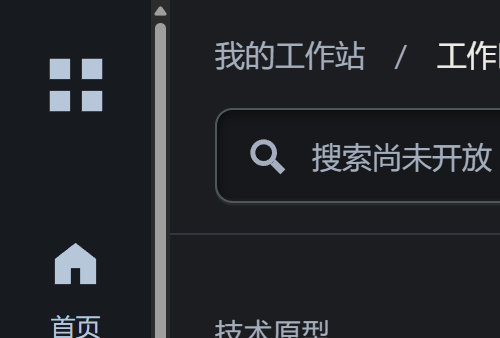
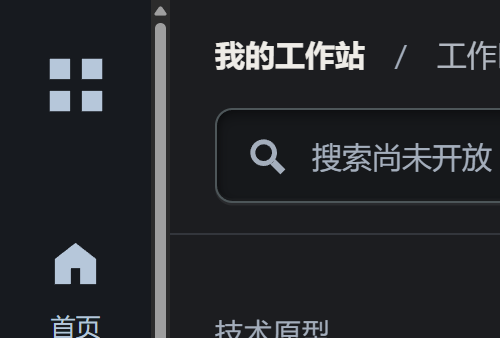
fix(shell): refine copy hierarchy and rounded corner hints

Changed region(s): [[0.42, 0.1183, 0.75, 0.2071], [0.87, 0.1183, 1.0, 0.2071]]

diff --git a/src/i18n.ts b/src/i18n.ts
@@ -2,61 +2,47 @@ export type PageId = 'home' | 'workspace' | 'plugins' | 'settings';
 
 const translations = {
   zh: {
-    appName: '模块化工作站',
-    prototype: '技术原型',
+    appName: '模块化工作站', prototype: '技术原型', navigation: '主导航',
     skip: '跳到主内容', context: '当前页面上下文', myStation: '我的工作站', overview: '总览',
     sections: { workspace: '文件与素材', plugins: '插件中心', settings: '外观与基础设置' },
-    localSpace: '本地空间', contextNote: '基础导航已可使用。工作空间、文件与插件功能将按计划逐步提供。',
+    localSpace: '本地空间', contextNote: '更多功能逐步开放',
     searchUnavailable: '搜索尚未开放', viewWorkspace: '查看工作区', createWorkspace: '新建工作空间', installPlugin: '安装插件',
-    workspaceUnavailable: '创建、关联文件夹与素材管理尚未实现。', pluginUnavailable: '安装与权限管理尚未实现，不会加载第三方代码。',
-    homeNote: '尚无文件或任务记录。这里仅提供已可用的页面导航，不展示示例业务数据。',
-    themeLabel: '当前主题方式', systemTheme: '跟随系统', themeNote: '深浅主题随系统切换；手动选择与偏好保存尚未实现。', previewOnly: '桌面 Shell · 功能逐步开放',
-    navigation: '主导航',
+    workspaceUnavailable: '创建与文件关联尚未开放', pluginUnavailable: '插件安装尚未开放',
+    homeNote: '暂无文件与任务',
+    themeLabel: '当前主题方式', systemTheme: '跟随系统', themeNote: '手动主题与偏好保存尚未开放',
     pages: {
-      home: { label: '首页', title: '从这里，组织你的每一天。', description: '创建一个本地工作区，再按自己的节奏加入文件、工具与插件。' },
-      workspace: { label: '工作区', title: '工作区', description: '目前还没有工作区。创建与打开本地工作区将在后续任务中实现。' },
-      plugins: { label: '插件', title: '插件', description: '插件管理尚未实现。此原型不会加载第三方代码。' },
-      settings: { label: '设置', title: '设置', description: '主题已跟随系统。手动主题、语言与其他配置将在后续任务中提供。' },
+      home: { label: '首页', title: '从这里开始创作', description: '集中管理空间与工具' },
+      workspace: { label: '工作区', title: '工作区', description: '工作空间功能尚未开放' },
+      plugins: { label: '插件', title: '插件', description: '插件管理尚未实现' },
+      settings: { label: '设置', title: '设置', description: '主题随系统切换' },
     },
-    status: '本地原型 · 无需登录',
-    emptyLabel: '等待下一步',
-    firstStep: '第一步 · 建立空间',
-    welcomeTitle: '让想法有一个落脚点',
-    welcomeDescription: '工作区会成为项目、素材和工具的起点。创建本地工作区的功能正在开发中。',
-    explore: '探索工作站',
+    status: '本地使用无需登录', emptyLabel: '等待下一步', explore: '探索工作站',
     modules: [
-      { symbol: '▣', title: '工作区', description: '为不同项目建立专属空间，集中常用视图与工具。', status: '尚未创建' },
-      { symbol: '▤', title: '文件与素材', description: '连接本地文件夹，清晰管理创作过程中的内容。', status: '即将开放' },
-      { symbol: '⬡', title: '工具与插件', description: '只启用真正需要的能力，保持工作台轻盈。', status: '即将开放' },
+      { title: '工作区', description: '集中项目与常用工具', status: '尚未创建' },
+      { title: '文件与素材', description: '整理文件与创作素材', status: '即将开放' },
+      { title: '工具与插件', description: '按需扩展工作站', status: '即将开放' },
     ],
   },
   en: {
-    appName: 'Modular Workstation',
-    prototype: 'Technical prototype',
+    appName: 'Modular Workstation', prototype: 'Technical prototype', navigation: 'Main navigation',
     skip: 'Skip to content', context: 'Page context', myStation: 'My workstation', overview: 'Overview',
-    sections: { workspace: 'Files & assets', plugins: 'Plugin center', settings: 'Appearance & basics' },
-    localSpace: 'LOCAL SPACE', contextNote: 'Page navigation is available. Workspaces, files and plugins will follow in later tasks.',
+    sections: { workspace: 'Files and assets', plugins: 'Plugin center', settings: 'Appearance and basics' },
+    localSpace: 'LOCAL SPACE', contextNote: 'More features coming later',
     searchUnavailable: 'Search coming later', viewWorkspace: 'View workspace', createWorkspace: 'New workspace', installPlugin: 'Install plugin',
-    workspaceUnavailable: 'Workspace creation, folder linking and asset management are not implemented.', pluginUnavailable: 'Installation and permissions are not implemented. No third-party code is loaded.',
-    homeNote: 'There are no file or task records. These entries navigate to existing pages; no sample business data is shown.',
-    themeLabel: 'Theme mode', systemTheme: 'Follow system', themeNote: 'Light and dark themes follow the system. Manual selection and preference storage are not implemented.', previewOnly: 'Desktop shell · More to come',
-    navigation: 'Main navigation',
+    workspaceUnavailable: 'Creation and folder linking coming later', pluginUnavailable: 'Plugin installation coming later',
+    homeNote: 'No files or tasks yet',
+    themeLabel: 'Theme mode', systemTheme: 'Follow system', themeNote: 'Manual themes and saved preferences coming later',
     pages: {
-      home: { label: 'Home', title: 'Organize your day from here.', description: 'Start with a local workspace, then add files, tools and plugins at your own pace.' },
-      workspace: { label: 'Workspaces', title: 'Workspaces', description: 'No workspace exists yet. Creating and opening local workspaces is planned for a later task.' },
-      plugins: { label: 'Plugins', title: 'Plugins', description: 'Plugin management is not implemented. This prototype does not load third-party code.' },
-      settings: { label: 'Settings', title: 'Settings', description: 'The theme follows your system. Manual theme, language and other preferences are planned for later tasks.' },
+      home: { label: 'Home', title: 'Start creating here', description: 'Keep your work in one place' },
+      workspace: { label: 'Workspaces', title: 'Workspaces', description: 'Workspace features coming later' },
+      plugins: { label: 'Plugins', title: 'Plugins', description: 'Plugin management is not implemented' },
+      settings: { label: 'Settings', title: 'Settings', description: 'Theme follows your system' },
     },
-    status: 'Local prototype · No sign-in',
-    emptyLabel: 'Coming later',
-    firstStep: 'FIRST STEP · MAKE SPACE',
-    welcomeTitle: 'Give ideas a place to land',
-    welcomeDescription: 'A workspace will be the starting point for projects, assets and tools. Local workspace creation is in development.',
-    explore: 'Explore the workstation',
+    status: 'Local use without login', emptyLabel: 'Coming later', explore: 'Explore the workstation',
     modules: [
-      { symbol: '▣', title: 'Workspaces', description: 'Create dedicated spaces for projects, views and tools.', status: 'Not created' },
-      { symbol: '▤', title: 'Files & assets', description: 'Connect local folders and organize creative work.', status: 'Coming later' },
-      { symbol: '⬡', title: 'Tools & plugins', description: 'Enable only the abilities you need.', status: 'Coming later' },
+      { title: 'Workspaces', description: 'Keep projects and tools together', status: 'Not created' },
+      { title: 'Files and assets', description: 'Organize files and creative assets', status: 'Coming later' },
+      { title: 'Tools and plugins', description: 'Extend your workstation as needed', status: 'Coming later' },
     ],
   },
 } as const;

diff --git a/src/styles.css b/src/styles.css
@@ -24,8 +24,9 @@ button { cursor: pointer; }
 .main-panel { min-width: 0; overflow: auto; }
 .topbar { min-height: 70px; padding: 12px 38px; display: flex; align-items: center; justify-content: space-between; gap: 20px; border-bottom: 1px solid var(--color-divider); font-size: var(--type-small); }
 .breadcrumb { color: var(--color-subtle); line-height: 1.6; }
-.breadcrumb span { padding: 0 12px; }
-.breadcrumb strong { color: var(--color-text); font-weight: 500; }
+.breadcrumb-separator { padding: 0 12px; }
+.breadcrumb-current { color: var(--color-muted); font-weight: 400; }
+.breadcrumb strong { color: var(--color-text); font-weight: 650; }
 .search-surface { display: flex; align-items: center; gap: 10px; width: 267px; min-height: 38px; padding: 8px 12px; border: 1px solid var(--color-frame); border-radius: var(--radius-md); color: var(--color-subtle); background: var(--color-well); box-shadow: var(--shadow-recessed); }
 .search-surface .icon { width: 16px; height: 16px; }
 .content { padding: 36px clamp(24px, 3vw, 40px); }
@@ -36,22 +37,22 @@ h1 { font-size: var(--type-title); line-height: 1.35; font-weight: 650; margin: 
 .control { display: inline-flex; align-items: center; justify-content: center; gap: 8px; min-height: var(--control-height); padding: 10px 16px; border: 1px solid var(--color-frame); border-radius: var(--radius-md); background: var(--color-surface); color: var(--color-text); font-size: var(--type-small); }
 .control .icon { width: 18px; height: 18px; }
 .control:not(:disabled):hover { background: var(--color-surface-hover); }
-.control.primary { flex: none; background: var(--color-accent); color: var(--color-on-accent); border-color: transparent; box-shadow: var(--shadow-raised); font-weight: 600; }
+.control.primary { flex: none; background: var(--color-accent); color: var(--color-on-accent); border-color: transparent; box-shadow: var(--shadow-raised); font-weight: 400; }
 .control.primary:hover, .module-card[data-selected="true"]:hover { background: var(--color-accent); filter: brightness(1.05); }
 .control:disabled { background: var(--color-disabled); color: var(--color-on-disabled); box-shadow: none; cursor: not-allowed; }
 .section-title { font-size: var(--type-body); margin: 32px 0 16px; }
 .module-grid { display: grid; grid-template-columns: repeat(3, minmax(0, 1fr)); gap: 16px; }
-.module-card { text-align: left; min-width: 0; min-height: 190px; padding: 22px; border: 1px solid var(--color-divider); border-radius: var(--radius-lg); background: var(--color-surface); color: var(--color-text); box-shadow: var(--shadow-panel); }
+.module-card { position: relative; text-align: left; min-width: 0; min-height: 190px; padding: 22px; border: 1px solid var(--color-divider); border-radius: var(--radius-lg); background: var(--color-surface); color: var(--color-text); box-shadow: var(--shadow-panel); }
 .module-card:hover { background: var(--color-surface-hover); }
 .card-head { display: flex; justify-content: space-between; align-items: center; margin-bottom: 20px; }
-.card-head > .icon { width: 17px; height: 17px; color: var(--color-subtle); }
+.module-card-corner { position: absolute; top: 14px; right: 14px; width: 18px; height: 18px; color: var(--color-subtle); pointer-events: none; }
 .state-emblem { width: 40px; height: 40px; display: grid; place-items: center; border-radius: var(--radius-md); color: var(--color-icon); background: var(--color-icon-bg); }
 .module-icon { width: 40px; height: 40px; display: grid; place-items: center; border-radius: var(--radius-md); background: var(--color-accent); color: var(--color-on-icon); }
 .module-card h3 { margin: 0 0 8px; font-size: 15px; }
 .module-card p { margin: 0; font-size: var(--type-small); color: var(--color-muted); line-height: 1.8; }
 .module-status { display: block; margin-top: 16px; font-size: var(--type-caption); color: var(--color-subtle); }
 .module-card[data-selected="true"] { background: var(--color-accent); color: var(--color-on-accent); border-color: transparent; box-shadow: var(--shadow-raised); }
-.module-card[data-selected="true"] p, .module-card[data-selected="true"] .module-status, .module-card[data-selected="true"] .card-head > .icon { color: inherit; }
+.module-card[data-selected="true"] p, .module-card[data-selected="true"] .module-status, .module-card[data-selected="true"] .module-card-corner { color: inherit; }
 .home-note { display: flex; align-items: flex-start; gap: 12px; margin-top: 32px; padding: 20px 0; border-top: 1px solid var(--color-divider); color: var(--color-subtle); }
 .home-note p { margin: 0; font-size: var(--type-small); line-height: 1.8; }
 .home-note .icon { margin-top: 2px; width: 18px; height: 18px; }

diff --git a/src/App.tsx b/src/App.tsx
@@ -24,10 +24,10 @@ export default function App() {
      <div className="sidebar-footer"><span className="status-dot"/>{messages.status}</div>
     </aside>
     <main className="main-panel" id="main-content" tabIndex={-1}>
-     <header className="topbar"><span className="breadcrumb">{messages.myStation}<span aria-hidden="true">/</span><strong>{current.label}</strong></span><div className="search-surface" aria-label={messages.searchUnavailable}><Icon name="search"/><span>{messages.searchUnavailable}</span></div></header>
+     <header className="topbar"><span className="breadcrumb"><strong>{messages.myStation}</strong><span className="breadcrumb-separator" aria-hidden="true">/</span><span className="breadcrumb-current">{current.label}</span></span><div className="search-surface" aria-label={messages.searchUnavailable}><Icon name="search"/><span>{messages.searchUnavailable}</span></div></header>
      <section className="content" aria-labelledby="page-title">
       <div className="content-intro"><div><span className="eyebrow">{messages.prototype}</span><h1 id="page-title">{current.title}</h1><p>{current.description}</p></div>{page==='home'&&<button className="control primary" type="button" onClick={()=>setPage('workspace')}><Icon name="workspace"/>{messages.viewWorkspace}</button>}</div>
-      {page==='home'?<><h2 className="section-title">{messages.explore}</h2><div className="module-grid">{messages.modules.map((module,index)=><button type="button" className="module-card" key={module.title} onClick={()=>setPage(moduleTargets[index])}><div className="card-head"><span className="module-icon"><Icon name={moduleIcons[index]}/></span><Icon name="arrow"/></div><h3>{module.title}</h3><p>{module.description}</p><span className="module-status">{module.status}</span></button>)}</div><div className="home-note"><Icon name="clock"/><p>{messages.homeNote}</p></div></>:<div className="empty-panel state-panel" data-tone="neutral"><div className="state-emblem"><Icon name={page}/></div><h2>{messages.emptyLabel}</h2><p>{current.description}</p>{page==='workspace'&&<><button className="control" type="button" disabled>{messages.createWorkspace}</button><span className="availability-note">{messages.workspaceUnavailable}</span></>}{page==='plugins'&&<><button className="control" type="button" disabled>{messages.installPlugin}</button><span className="availability-note">{messages.pluginUnavailable}</span></>}{page==='settings'&&<div className="theme-information"><span>{messages.themeLabel}</span><strong>{messages.systemTheme}</strong><p>{messages.themeNote}</p></div>}</div>}
+      {page==='home'?<><h2 className="section-title">{messages.explore}</h2><div className="module-grid">{messages.modules.map((module,index)=><button type="button" className="module-card" key={module.title} onClick={()=>setPage(moduleTargets[index])}><div className="card-head"><span className="module-icon"><Icon name={moduleIcons[index]}/></span><Icon name="corner" className="module-card-corner"/></div><h3>{module.title}</h3><p>{module.description}</p><span className="module-status">{module.status}</span></button>)}</div><div className="home-note"><Icon name="clock"/><p>{messages.homeNote}</p></div></>:<div className="empty-panel state-panel" data-tone="neutral"><div className="state-emblem"><Icon name={page}/></div><h2>{messages.emptyLabel}</h2><p>{current.description}</p>{page==='workspace'&&<><button className="control" type="button" disabled>{messages.createWorkspace}</button><span className="availability-note">{messages.workspaceUnavailable}</span></>}{page==='plugins'&&<><button className="control" type="button" disabled>{messages.installPlugin}</button><span className="availability-note">{messages.pluginUnavailable}</span></>}{page==='settings'&&<div className="theme-information"><span>{messages.themeLabel}</span><strong>{messages.systemTheme}</strong><p>{messages.themeNote}</p></div>}</div>}
      </section>
     </main>
    </div>

diff --git a/src/Icons.tsx b/src/Icons.tsx
@@ -1,5 +1,5 @@
 import type { PageId } from './i18n';
-export type IconName = PageId | 'grid' | 'folder' | 'search' | 'arrow' | 'warning' | 'clock';
+export type IconName = PageId | 'grid' | 'folder' | 'search' | 'corner' | 'warning' | 'clock';
 const shapes: Record<IconName, string> = {
  home: 'M3 10 12 3l9 7v11h-7v-7h-4v7H3Z',
  workspace: 'M3 3h18v18H3Zm2 4v2h14V7Zm3 4v8h2v-8Z',
@@ -8,10 +8,10 @@ const shapes: Record<IconName, string> = {
  grid: 'M3 3h7v7H3Zm11 0h7v7h-7ZM3 14h7v7H3Zm11 0h7v7h-7Z',
  folder: 'M3 4h6l3 3h9v3H3Zm-1 8h20l-2 9H4Z',
  search: 'M18 10a8 8 0 1 1-16 0 8 8 0 0 1 16 0ZM5 10a5 5 0 1 0 10 0 5 5 0 0 0-10 0Zm9 7 3-3 6 6-3 3Z',
- arrow: 'M6 5h13v13h-2V8L5 20l-1.5-1.5L15 7H6Z',
+ corner: 'M4 4h11a5 5 0 0 1 5 5v11',
  warning: 'm10.3 3-8 15A2 2 0 0 0 4 21h16a2 2 0 0 0 1.7-3l-8-15a2 2 0 0 0-3.4 0Zm.9 5v6h1.6V8Zm0 8v2h1.6v-2Z',
  clock: 'M22 12A10 10 0 1 1 2 12a10 10 0 0 1 20 0ZM11 6v7l5 3 .8-1.4-4.2-2.5V6Z',
 };
 export function Icon({ name, className = '' }: { name: IconName; className?: string }) {
- return <svg className={`icon ${className}`} viewBox="0 0 24 24" aria-hidden="true" focusable="false"><path d={shapes[name]} fill="currentColor" fillRule="evenodd" /></svg>;
+ return <svg className={`icon ${className}`} viewBox="0 0 24 24" aria-hidden="true" focusable="false">{name === 'corner' ? <path d={shapes.corner} fill="none" stroke="currentColor" strokeWidth="2" strokeLinecap="round" strokeLinejoin="round" /> : <path d={shapes[name]} fill="currentColor" fillRule="evenodd" />}</svg>;
 }

diff --git a/PROJECT_STATE.md b/PROJECT_STATE.md
@@ -3,13 +3,15 @@
 
 > 本文件是跨会话的**恢复入口**，不是项目任务数据库。先阅读它，再检查链接中的实时 Issue / PR / Projects；若内容冲突，以 GitHub 实时记录为准。
 
-视觉恢复必读：[已确认视觉偏好与复查清单](docs/DESIGN_PREFERENCES.md)。最新反馈将普通控件边框设为 1px、原边界色 50% 不透明度；保留实色选中、面型为主的图标、钴蓝与 `#C93B3B` 警告。AGENTS.md 已要求未来界面修改先读并复查，变更仍在 PR #19，应用未映射。
+视觉恢复必读：[已确认视觉偏好与复查清单](docs/DESIGN_PREFERENCES.md)。普通控件边框 1px、原边界色 50% 不透明度；实色选中、面型为主的图标与 `#C93B3B` 警告保持。最新应用为米白/深蓝及炭灰/深蓝主题，已在 PR #20 映射；未来界面修改须按 AGENTS.md 先读偏好并复查，不恢复历史钴蓝候选。
 
 侧边设计交接补充：用户已认可 [明亮米白与深蓝、轻微凹凸层次的浅色首页方向](docs/DESIGN_REVIEW_IVORY_TACTILE.md)。原样稿已归档，偏好记录及 D1 已标注优先级；该段为交接归档时点；随后深色已确认，应用映射进展见下一段。此项不改变唯一主任务或阶段验收状态。
 
 最新实施（产品负责人通过侧边讨论明确授权）：[深浅主题统一映射到四页 Shell](docs/SHELL_THEME_IMPLEMENTATION.md)，[实施 PR #20](https://github.com/2539426035852ningmao-cmyk/modular-workstation/pull/20)，分支 `feat/s1-approved-theme-shell`，承接 PR #19 的已确认设计。深色方向已确认 `#1C1D20` / `#225487`，浅色为 `#F8F5EF` / `#0C3967`；真实导航、只读主题说明与空态已换装，文件/插件业务仍未实现。中英文、四页、双主题、六种尺寸与缩放共 96 个实际窗口案例、Windows 便携包启动与退出核验已通过，待审查和最终产品验收；旧稿进展段落按历史时点理解。
 
 最新截图修正已追加至 PR #20：移除默认菜单、重复品牌横栏与全宽底部状态栏；三张首页模块卡常规状态统一，不默认选中文件卡；图标块统一主题深蓝底/纯白图形。卡片仍仅导航，深蓝选择卡面只预留样式。三项测试、96 个窗口案例和新便携包启动核验通过，用户视觉偏好记录已更新。
+
+最新文字与导向修正继续进入 PR #20：面包屑左重右轻、右侧主操作常规字重；中英文标题与辅助短语精简且无标点；三张卡使用留有内边距的圆角直角，不带箭杆。四项测试、96 个窗口案例与新便携包核验通过；偏好和规范已留存。唯一主任务与验收状态不变。
 
 ## 唯一当前主任务
 **[桌面 Shell 技术原型（Issue #10）](https://github.com/2539426035852ningmao-cmyk/modular-workstation/issues/10)**。项目所有者明确要求先实现可启动窗口与导航；这是当前唯一实施任务，不表示 S0/S1 已验收。

diff --git a/docs/DESIGN_PREFERENCES.md b/docs/DESIGN_PREFERENCES.md
@@ -13,7 +13,10 @@
 | 选中状态 | 导航、资源行、标签、视图切换、筛选使用完整实色填充与清楚的反差前景（深蓝选中配米白；深蓝侧栏上的米白选中配深蓝），扎实清楚；不用淡底加细框代替选中。素材缩略图保留原色 |
 | 首页三张模块卡（截图修订） | 常规状态统一浅色白卡；深色主题对应统一中性深色卡面，不默认突出文件卡。深蓝整卡只预留给未来真实选择状态；当前点击仍跳转，不伪造选择功能。三张卡左上角图标块均使用对应主题的深蓝底与纯白图形 |
 | 冗余窗口区域（截图修订） | 去掉 Electron 默认 File/Edit/View/Window 菜单、重复的品牌/技术原型横栏、全宽底部状态栏。保留原生标题栏的拖动、最小化、最大化和关闭能力；不擅自新增自绘窗口控件 |
-| 图标 | 面型为主、线面结合，轮廓统一、视觉稳重；可用镂空和局部层次，箭头、加号、关闭等仍可用线条。避免全套空心线型图标 |
+| 图标 | 面型为主、线面结合，轮廓统一、视觉稳重；可用镂空和局部层次，加号与关闭等辅助符号可用线条。导向提示仅保留圆角直角，不带箭杆；避免全套空心线型图标 |
+| 横向文字层级（最新） | 左侧承担重点与加粗，右侧使用较轻的常规字重；面包屑左侧 650、右侧 400，右侧主操作文字也为 400，不出现右重左轻 |
+| 标题与辅助文案（最新） | 简短直接；注释、占位和辅助短语不带标点，不放冗长开发说明。首页标题同样精简并去掉标点；未开放功能仍须清楚说明，不能因缩写误导用户 |
+| 卡片导向提示（最新） | 不使用完整箭头或尾部箭杆；右上角采用两条边构成的圆角直角，当前距顶边和右边各 14px。颜色跟随主题，不使用截图标注的绿色；点击行为仍是导航 |
 | 警告色 | 独立实色红块、白色图标，当前 `#C93B3B`。`#DC2626` 被反馈过亮、饱和度过高；`#A84B50` 被反馈偏灰显脏。保留纯红色相，轻度降低饱和度；警告与错误仍须用图标、文字和语义区分 |
 | 普通边框 | 搜索框、次要按钮、分段控件外框和未选中的审阅标签：1px，边框色以原边界色的 50% 不透明度绘制，降低抢眼程度。不降低整个控件或文字的不透明度 |
 | 焦点与边界 | 键盘焦点仍为独立清楚的 2px 外圈；实色选中保持不透明。装饰边框可以安静，错误或必须依赖轮廓识别的状态不能因此失去辨识度 |

diff --git a/docs/SHELL_THEME_IMPLEMENTATION.md b/docs/SHELL_THEME_IMPLEMENTATION.md
@@ -39,6 +39,15 @@
 - 新增 `tests/home-feedback.test.cjs`，旧版真实失败（菜单仍存在），修订后通过；检查菜单移除且 Alt 不唤回、冗余栏不存在、三卡未选中与图标配色、未来选中样式探针、跳转回首页后无残留选中。
 - `npm test` 三项测试均通过，96 个运行窗口案例和全部深浅截图重新执行/导出。新便携包的菜单/卡片及原有构建身份、隔离、四页导航与关闭退出均已核对。
 
+## 最新截图修订：文字层级与圆角直角提示
+
+- 面包屑左侧 650、右侧 400；右侧主操作不加粗，遵循左重右轻。
+- 首页标题及四页中英文辅助文案缩短为无标点短语，明确保留未开放能力说明；删除未使用的长文案键。
+- 三张模块卡用顶部与右侧两条边构成的圆角直角替换完整箭头，距边缘 14px，不带箭杆；导航功能不变。
+- 新增 `tests/copy-hierarchy.test.cjs`，旧版本真实失败于面包屑右重左轻；修复后四项测试通过。检查中英文四页文案、字重和三处提示符形状/内边距；当前短文案长度上限仅为回归阈值，不是新增产品定案。
+- 96 个窗口案例重新执行，最低已检查文本对比 4.5769:1，远程请求和渲染异常均为 0；重新导出实际深浅截图。新便携包已启动核验且构建内容与本地逐字节一致，旧候选保留。
+- 偏好记录、基础规范与 D1 索引已同步；本次没有修改依赖、窗口权限或业务行为。
+
 ## 已执行验证
 
 1. 先写主题回归断言，在旧运行版本上真实失败（旧背景 `#171E20` 与确认值不符），再实施修复。
@@ -53,7 +62,7 @@
 
 ## 交付与后续
 
-本机候选：工作目录上两级 `outputs/theme-candidate-20261020-home-refinement/ModularWorkstation-win32-x64/ModularWorkstation.exe`。整个目录需保留；尚非正式安装包，没有发布到 GitHub Release，也未完成签名/升级测试。
+本机候选：工作目录上两级 `outputs/theme-candidate-20261020-copy-refinement/ModularWorkstation-win32-x64/ModularWorkstation.exe`。整个目录需保留；尚非正式安装包，没有发布到 GitHub Release，也未完成签名/升级测试。
 
 应用代码修改：`src/tokens.css`、`src/styles.css`、`src/App.tsx`、`src/Icons.tsx`、`src/i18n.ts`，以及主进程启动底色与默认菜单移除。依赖与锁文件没有变动，没有扩大渲染权限或接入插件。
 

diff --git a/docs/PROTOTYPE.md b/docs/PROTOTYPE.md
@@ -39,7 +39,7 @@ npm run package:win
 
 当前深浅主题与四页实际映射、截图和测试见 [实施记录](SHELL_THEME_IMPLEMENTATION.md)。主题继续跟随系统；设置只读显示当前模式，手动主题和偏好保存尚未实现。首页模块卡片和“查看工作区”仅切换已有页面，创建/安装等操作禁用并说明原因。
 
-本机新候选位于项目工作目录上两级的 `outputs/theme-candidate-20261020-home-refinement/ModularWorkstation-win32-x64/`。保留整个文件夹，双击 `ModularWorkstation.exe`；切换 Windows 深浅主题，检查四页、Tab/Enter、最小窗口和关闭退出。不要把单个 EXE 移出目录。旧便携包未覆盖，本候选未经最终产品验收。
+本机新候选位于项目工作目录上两级的 `outputs/theme-candidate-20261020-copy-refinement/ModularWorkstation-win32-x64/`。保留整个文件夹，双击 `ModularWorkstation.exe`；切换 Windows 深浅主题，检查四页、Tab/Enter、最小窗口和关闭退出。不要把单个 EXE 移出目录。旧便携包未覆盖，本候选未经最终产品验收。
 
 重新打包可指定新的输出目录，避免覆盖旧包：
 

diff --git a/docs/DESIGN_PROPOSAL_D1.md b/docs/DESIGN_PROPOSAL_D1.md
@@ -10,6 +10,8 @@
 
 最新运行截图修正：移除默认菜单、重复品牌横栏与全宽底栏；首页三卡常规状态一致、无默认蓝色卡，图标块为主题深蓝底与纯白图形。选择卡面只为未来真实选择预留，当前点击仍导航。该反馈优先于历史稿中的默认文件强调卡；详见 [偏好记录](DESIGN_PREFERENCES.md)。
 
+最新文字与图形反馈：横向信息左重右轻，面包屑右侧和右侧主操作不加粗；标题与辅助文案精简，注释及占位不用标点。模块卡导向提示改为留有内边距的圆角直角，不使用带箭杆的完整箭头。已在 PR #20 的运行版本修订；后续沿用 [偏好记录](DESIGN_PREFERENCES.md)，不恢复历史稿中的长文案或箭头。
+
 ## 1. 依据、范围与项目位置
 
 产品所有者授权本轮完成 D1。方向为 **LobeHub 视觉美学 + Figma 专业工作台布局 + 保留 B「轻量模块」首页**。本提案定义设计稿和后续小范围实现的约束；所有新增尺寸、色值和组件规格仍为候选。

diff --git a/docs/DESIGN_FOUNDATIONS.md b/docs/DESIGN_FOUNDATIONS.md
@@ -27,6 +27,12 @@
 
 Electron 默认菜单已移除，Alt 不会唤回；原生标题栏及窗口控制保留。重复应用品牌横栏和全宽底部状态栏已删除，页面内容填满可用空间。
 
+## 文字层级与导向提示
+
+横向信息左重右轻：面包屑左侧字重 650、右侧 400，右侧主操作文字使用 400。首页标题和辅助文案采用简短短语；注释、占位文字不带标点，不加入冗长开发说明。中英文都保留功能未开放的真实边界。
+
+卡片右上导向提示仅为圆角直角，不带完整箭头的箭杆。自绘 SVG 使用顶部与右侧两条边、圆角连接及圆头，距卡片顶边和右边各 14px；配色跟随主题。装饰符号隐藏读屏输出，卡片按钮名称与导航行为保持可用。
+
 ## 表面和状态
 
 - `--shadow-recessed`：搜索占位表面顶部内阴影、底部细亮边；当前搜索尚未开放，不伪装为可用输入框。
